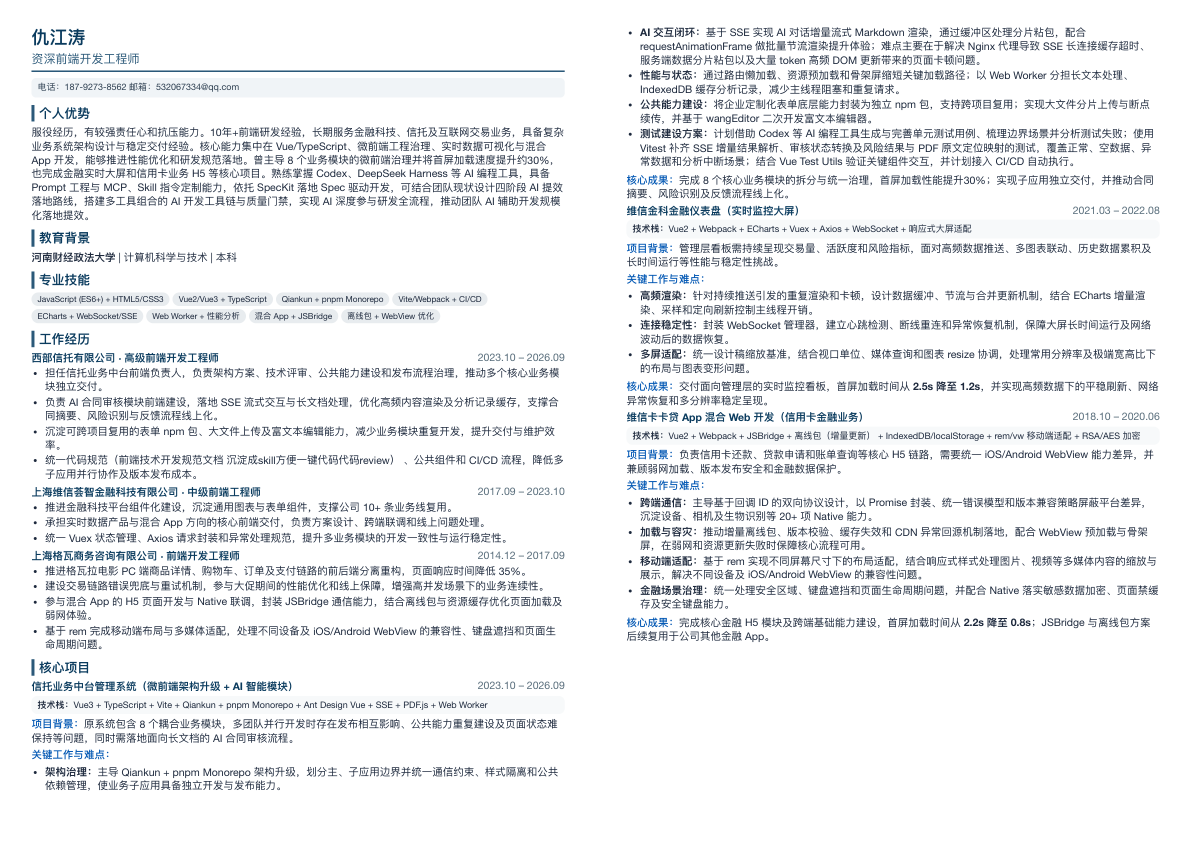
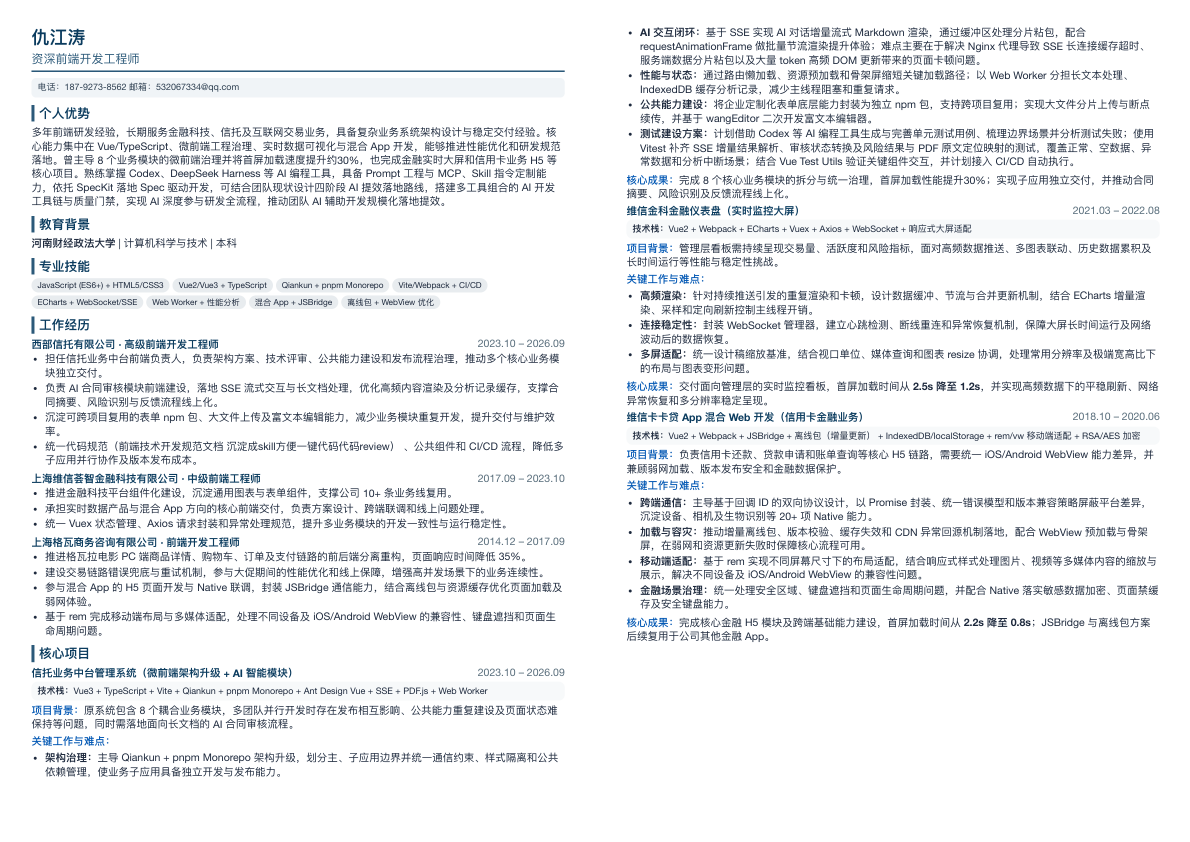
perf: 修改简历

Changed region(s): [[0.0, 0.1544, 0.4975, 0.9572]]

diff --git a/前端开发工程师-仇江涛.html b/前端开发工程师-仇江涛.html
@@ -191,7 +191,7 @@
 
 <!-- 个人优势 -->
 <h2>个人优势</h2>
-<p>服役经历，有较强责任心和抗压能力。10年+前端研发经验，长期服务金融科技、信托及互联网交易业务，具备复杂业务系统架构设计与稳定交付经验。核心能力集中在 Vue/TypeScript、微前端工程治理、实时数据可视化与混合 App 开发，能够推进性能优化和研发规范落地。曾主导 8 个业务模块的微前端治理并将首屏加载速度提升约30%，也完成金融实时大屏和信用卡业务 H5 等核心项目。熟练掌握 Codex、DeepSeek Harness 等 AI 编程工具，具备 Prompt 工程与 MCP、Skill 指令定制能力，依托 SpecKit 落地 Spec 驱动开发，可结合团队现状设计四阶段 AI 提效落地路线，搭建多工具组合的 AI 开发工具链与质量门禁，实现 AI 深度参与研发全流程，推动团队 AI 辅助开发规模化落地提效。</p>
+<p>多年前端研发经验，长期服务金融科技、信托及互联网交易业务，具备复杂业务系统架构设计与稳定交付经验。核心能力集中在 Vue/TypeScript、微前端工程治理、实时数据可视化与混合 App 开发，能够推进性能优化和研发规范落地。曾主导 8 个业务模块的微前端治理并将首屏加载速度提升约30%，也完成金融实时大屏和信用卡业务 H5 等核心项目。熟练掌握 Codex、DeepSeek Harness 等 AI 编程工具，具备 Prompt 工程与 MCP、Skill 指令定制能力，依托 SpecKit 落地 Spec 驱动开发，可结合团队现状设计四阶段 AI 提效落地路线，搭建多工具组合的 AI 开发工具链与质量门禁，实现 AI 深度参与研发全流程，推动团队 AI 辅助开发规模化落地提效。</p>
 
 <!-- 教育背景 -->
 <h2>教育背景</h2>
